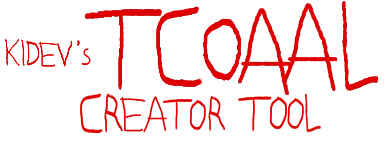
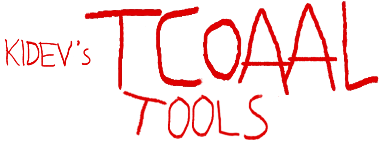
Update domains, update title, ease import rules

Changed region(s): [[0.1841, 0.6525, 0.8286, 0.9929]]

diff --git a/js/gameImporter.js b/js/gameImporter.js
@@ -24,9 +24,6 @@ class GameImporter {
             data: {},
         };
         this.signature = "TCOAAL";
-        this.hash = atob(
[1 lines of base64/hex data omitted]
-        );
         this.fileCounter = 0;
         this.totalFiles = 0;
         this.filenameMap = filenamesMapped;
@@ -70,12 +67,9 @@ class GameImporter {
             validFolders.push(folder.path);
         }
 
-        let gameFolder = false;
         for (const file of files) {
             const path = file.webkitRelativePath || file.name;
             filesByPath[path] = file;
-
-            gameFolder ||= path === this.hash;
 
             if (path.includes("www/languages") && path.endsWith("dialogue.txt")) {
                 this.dialogueFileFound = true;
@@ -87,10 +81,6 @@ class GameImporter {
                     break;
                 }
             }
-        }
-        if (!gameFolder) {
-            alert("Invalid game folder");
-            return false;
         }
 
         this.totalFiles = relevantFiles.length;

diff --git a/js/interface.js b/js/interface.js
@@ -1875,7 +1875,7 @@ function setupGalleryOnlyMode() {
                     <button
                         id="playTCOAALBtn"
                         class="play-tcoaal-btn tcoaal-button"
-                        onclick="window.open('https://play-tcoaal.kidev.org', '_blank')"
+                        onclick="window.open('https://tcoaal.app', '_blank')"
                         title="Play TCOAAL with mods directly in your browser"
                         style="width:35vmax;margin-top:0.5vmax;"
                     >